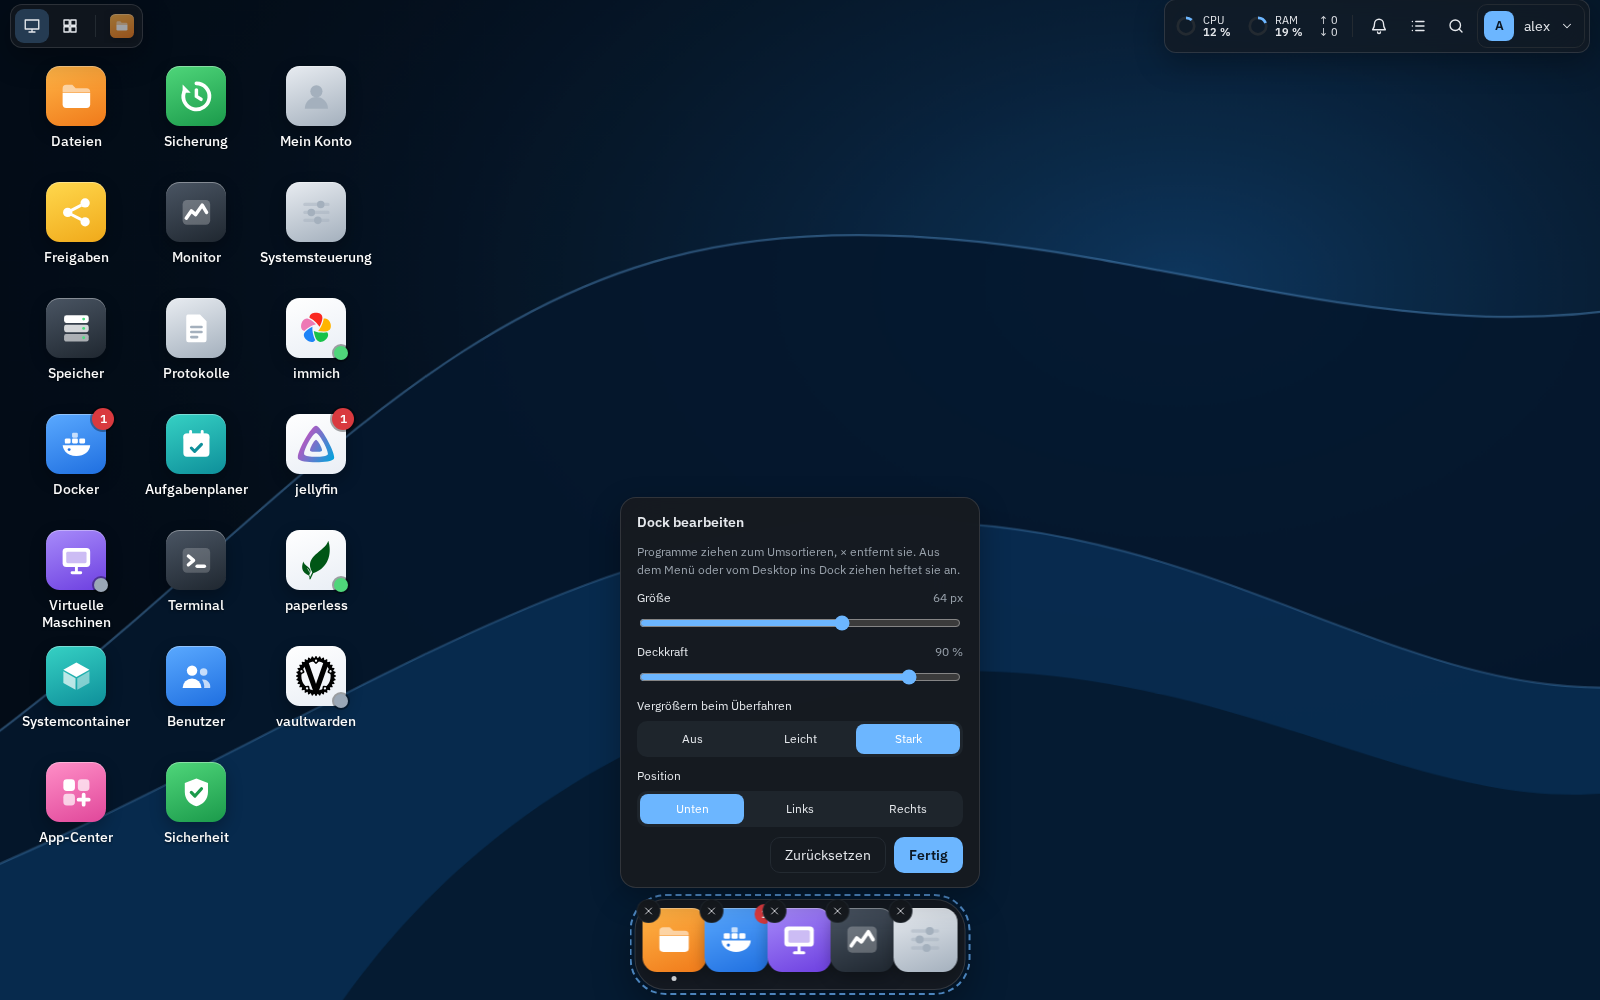
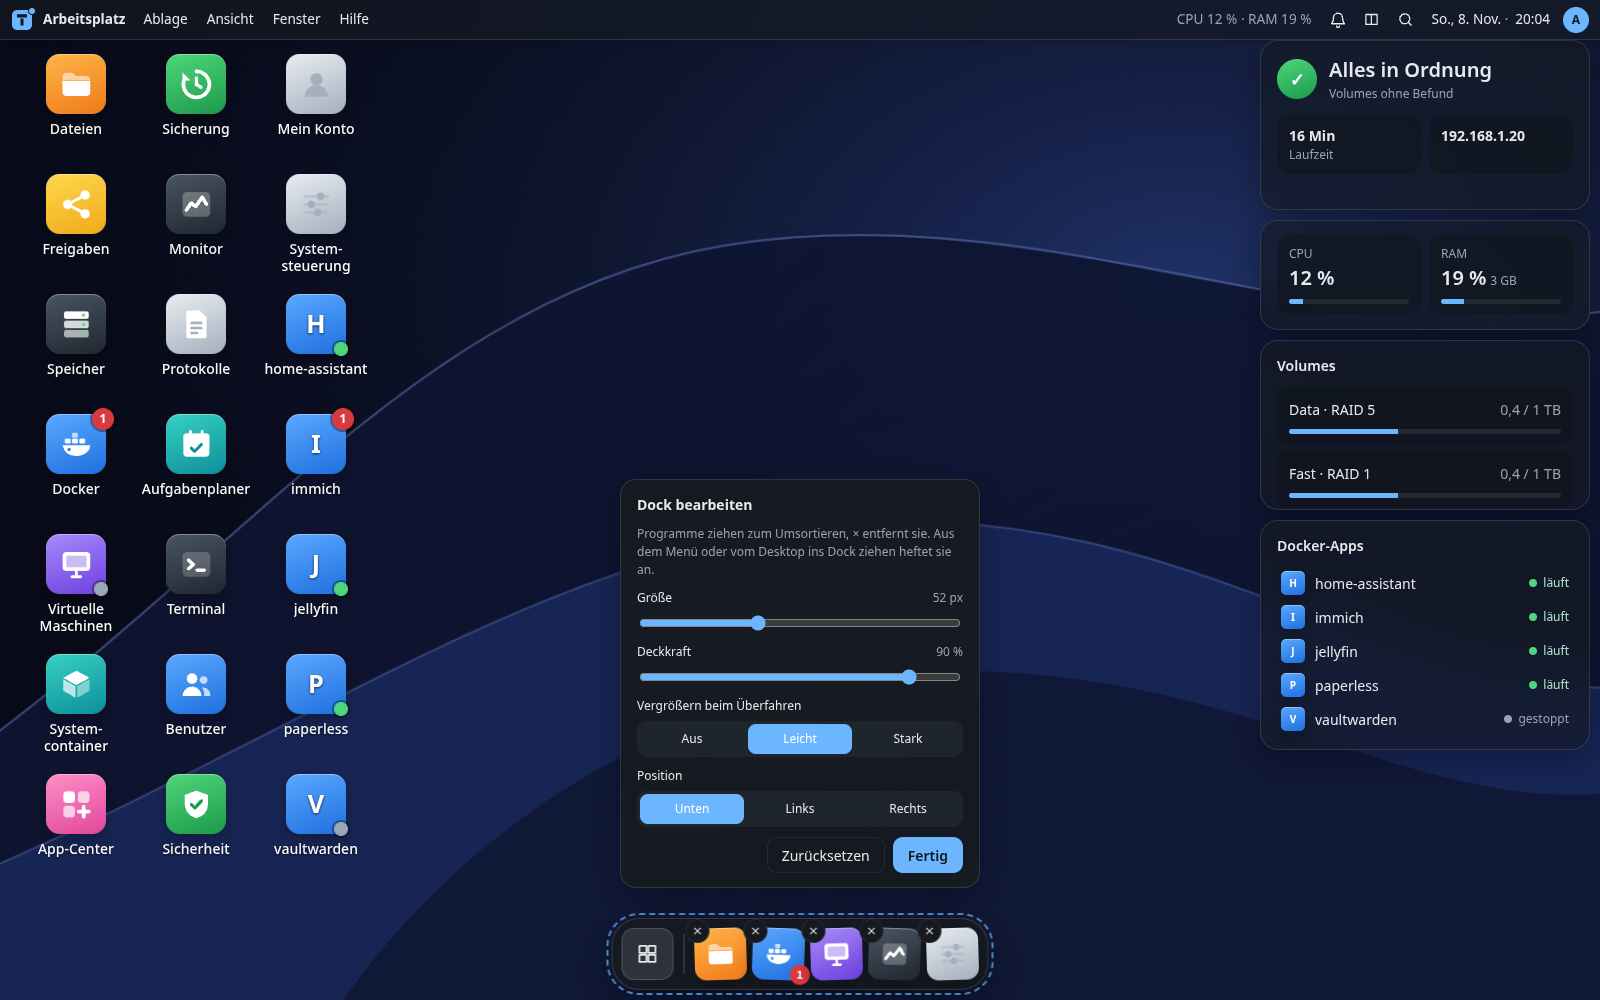
README: letzte alte Bilder durch Aufnahmen von 0.70 ersetzt
Hauptmenü, Dock bearbeiten, Systemsteuerung und Fernansicht (Fenster und
Handy) stammten noch aus 0.62. Die Fernansicht zeigt jetzt das Foto
„Küste“ statt der roten Testfläche (VIEWER_PICTURE im Viewer-Test).

diff --git a/docs/screenshots/README.md b/docs/screenshots/README.md
@@ -2,11 +2,11 @@
 
 `current/` enthält die aktuellen Aufnahmen für die Projekt-README und die Fachdokumente.
 
-**Aufnahmestand:** Arbeitsplatz, Anmeldeseite, Docker, Dateien, Virtuelle Maschinen, Freigaben, Speicher, Darstellung und Handy-Start zeigen **TitanOS 0.70.0** (Zweig `feat/0.70`), aufgenommen am **8. November 2026** mit `scripts/capture-readme-screenshots.mjs` (Chromium/Playwright gegen `vite dev`, Theme Graphit, blauer Akzent, Deutsch, Fenster maximiert). Die Docker-Apps (immich, jellyfin, paperless, home-assistant, vaultwarden) sind Beispieldaten des Skripts mit Buchstaben-Symbolen. Hauptmenü, Systemsteuerung, Dock bearbeiten und die Fernansicht stammen noch aus der Aufnahme von 0.62.0 (7. November 2026); ihre Oberfläche hat sich seither nur wenig geändert.
+**Aufnahmestand:** Alle in der README eingebundenen Bilder zeigen **TitanOS 0.70.0** (Zweig `feat/0.70`), aufgenommen am **8. November 2026** mit `scripts/capture-readme-screenshots.mjs` (Chromium/Playwright gegen `vite dev`, Theme Graphit, blauer Akzent, Deutsch, Fenster maximiert). Die Docker-Apps (immich, jellyfin, paperless, home-assistant, vaultwarden) sind Beispieldaten des Skripts mit Buchstaben-Symbolen. Die Fernansicht kommt aus `scripts/test-ui-viewer.mjs` mit `VIEWER_PICTURE=/backgrounds/kueste.webp`.
 
 Ältere Bilder in `current/` (Speicher, Freigaben, Dateien, Firewall, VM erstellen, Protokoll, Dateiaufträge, KI-Agent) zeigen die **alte Oberfläche** mit Kopfzeile (0.47.1 bzw. KI-Agent 0.51.0/0.54.0). Kopfzeile und Seitennavigation sind seit 0.62.0 entfernt; diese Bilder sind nur noch in Fachdokumenten verlinkt (VM erstellen, Protokoll) bzw. als Nachweis ihrer damaligen Prüfungen und werden in der README nicht mehr eingebunden. Die Aufnahmen des alten Dashboards und der alten Navigation sind entfernt.
 
-Alle NAS-Antworten werden durch isolierte Demonstrationsdaten ersetzt (`scripts/test-ui-fixtures.mjs`). Hostname, Konten, Dateien, Laufwerke, Adressen und Messwerte sind Beispiele. Es werden weder echte NAS-Geräte angesprochen noch Container oder VMs gestartet. Das Bild in der **Fernansicht** ist ein nachgebildeter Strom (rote Fläche mit grünem Quadrat, im Browser selbst kodiert), keine echte App. Die sichtbaren App-Symbole (immich, jellyfin, paperless, vaultwarden) sind die Originalbilder der Projekte aus dem Zwischenspeicher `out/readme-icons/` (SHA-256 bei der Aufnahme mit `icon-sources.json` verglichen, gleich); Quellen und SHA-256 stehen in [icon-sources.json](icon-sources.json), Namen und Logos gehören den jeweiligen Projekten. Keine nachträgliche Bildbearbeitung und keine Design-Mockups. Die Bilder ersetzen keine Funktions- oder Hardwareprüfung.
+Alle NAS-Antworten werden durch isolierte Demonstrationsdaten ersetzt (`scripts/test-ui-fixtures.mjs`). Hostname, Konten, Dateien, Laufwerke, Adressen und Messwerte sind Beispiele. Es werden weder echte NAS-Geräte angesprochen noch Container oder VMs gestartet. Das Bild in der **Fernansicht** ist ein nachgebildeter Strom (das mitgelieferte Foto „Küste“, im Browser selbst als Video kodiert), keine echte App. Die App-Symbole sind Buchstaben, keine Logos der Projekte ([icon-sources.json](icon-sources.json) gehört zu älteren Aufnahmen). Keine nachträgliche Bildbearbeitung und keine Design-Mockups. Die Bilder ersetzen keine Funktions- oder Hardwareprüfung.
 
 [capture.json](current/capture.json) nennt Quellstand, Aufnahmedatum und für jedes Bild Aufnahmeskript, Originaldatei der Skriptausgabe, Größe und SHA-256.
 
@@ -15,13 +15,13 @@ Alle NAS-Antworten werden durch isolierte Demonstrationsdaten ersetzt (`scripts/
 | Datei | Inhalt | Darstellung |
 |---|---|---|
 | [arbeitsplatz.png](current/arbeitsplatz.png) | Arbeitsplatz: Programmsymbole mit Abzeichen (Update, läuft/gestoppt), Widgets rechts (Zustand, CPU/RAM, Volumes, Docker-Apps), Leisten oben, Dock | Desktop 1600 × 1000 |
-| [fernansicht.png](current/fernansicht.png) | Fenster der Docker-App „immich“ in der Fernansicht: Zustand, Bildrate, GPU, Lautstärke, Qualität, Zwischenablage, Dateien; Bild nachgebildet | Desktop 1600 × 1000 |
+| [fernansicht.png](current/fernansicht.png) | Fenster der Docker-App „immich“ in der Fernansicht mit geöffnetem Menü „…“: Lautstärke, Datei öffnen, Zwischenablage, Qualität, Zustand; Bild nachgebildet | Desktop 1600 × 1000 |
 | [hauptmenue.png](current/hauptmenue.png) | Hauptmenü mit Suche, Filtern, Programmen, Docker-Apps und VM-Bildschirm, unten Konto, Sperren, Ein/Aus | Desktop 1600 × 1000 |
 | [docker.png](current/docker.png) | Programm Docker (Fenster maximiert): Seitenleiste, Werkzeugleiste, Container-Karten | Desktop 1600 × 1000 |
 | [vms.png](current/vms.png) | Programm Virtuelle Maschinen: „Deine VMs“ in der Seitenleiste, Übersicht einer VM mit Gefahrenzone | Desktop 1600 × 1000 |
-| [systemsteuerung.png](current/systemsteuerung.png) | Systemsteuerung › Alle Einstellungen mit Suche und Bereichen | Desktop 1600 × 1000 |
-| [darstellung.png](current/darstellung.png) | Systemsteuerung › Darstellung: Theme, Variante, Akzent, fünf Schieberegler | Desktop 1600 × 1000 |
-| [dock-bearbeiten.png](current/dock-bearbeiten.png) | Dock bearbeiten: Größe, Deckkraft, Vergrößern, Position | Desktop 1600 × 1000 |
+| [systemsteuerung.png](current/systemsteuerung.png) | Systemsteuerung › Übersicht: Seitenleiste mit Suche, Zustand, Dienste, Zu erledigen | Desktop 1600 × 1000 |
+| [darstellung.png](current/darstellung.png) | Systemsteuerung › Darstellung: Theme, Variante, Akzent, Glas von Klar bis Getönt, Hintergründe | Desktop 1600 × 1000 |
+| [dock-bearbeiten.png](current/dock-bearbeiten.png) | Dock bearbeiten: Größe, Deckkraft, Vergrößern, Position; Programme im Dock mit × | Desktop 1600 × 1000 |
 | [anmeldeseite.png](current/anmeldeseite.png) | Anmeldeseite nach dem Abmelden: Uhr, Glaskarte, Sprache | Desktop 1440 × 900 |
 | [handy-start.png](current/handy-start.png) | Startbildschirm am Handy: Suche, Zustand, App-Raster mit Docker-Apps | Smartphone 390 × 844 |
 | [fernansicht-mobil.png](current/fernansicht-mobil.png) | Fernansicht am Handy im Vollbild mit Lautstärke und Tastatur | Smartphone 390 × 844 |

diff --git a/README.md b/README.md
@@ -89,7 +89,7 @@ Alles im Einzelnen – zum Aufklappen.
 - **Am Handy:** Startbildschirm mit Suche und App-Raster; jedes Programm und jede Docker-App öffnet im Vollbild mit „Zurück“. Ränder für Notch und Home-Leiste, keine vergrößernden Eingabefelder in Safari.
 - **Klare Rückfragen statt Eintippen:** Löschen, Überschreiben, Plattentests, Zwei-Faktor-Zurücksetzen, SSH-Schlüssel und Zertifikate entfernen bestätigt man in einem Dialog, der genau nennt, was passiert. Namen müssen nirgends eingetippt werden; „Abbrechen“ hat den Fokus, Enter löst nie die gefährliche Aktion aus. Zerstörende Knöpfe stehen gesammelt in einer abgesetzten „Gefahrenzone“ am Ende. Fachbegriffe erklärt ein „?“ direkt daneben.
 
-[![Hauptmenü mit Suche, Filtern, Programmen und Docker-Apps](docs/screenshots/current/hauptmenue.png)](docs/screenshots/current/hauptmenue.png)
+[![Hauptmenü mit Suche, Filtern, Programmen, Docker-Apps und VM-Bildschirm](docs/screenshots/current/hauptmenue.png)](docs/screenshots/current/hauptmenue.png)
 
 [Dock bearbeiten](docs/screenshots/current/dock-bearbeiten.png) · [Beschreibung des Desktop-Modus](docs/DESKTOP.md) · [Sperrbildschirm](docs/SESSION-LOCK.md)
 
@@ -161,7 +161,7 @@ Alles im Einzelnen – zum Aufklappen.
 
 [![Programm Docker im Fenster: Seitenleiste, Werkzeugleiste und Container-Karten mit App-Symbolen](docs/screenshots/current/docker.png)](docs/screenshots/current/docker.png)
 
-[![Docker-App „immich“ in der Fernansicht im Fenster, mit Lautstärke, Qualität, Zwischenablage und Dateien (Bild nachgebildet)](docs/screenshots/current/fernansicht.png)](docs/screenshots/current/fernansicht.png)
+[![Docker-App „immich“ in der Fernansicht im Fenster, Menü mit Lautstärke, Dateien, Zwischenablage und Qualität (Bild nachgebildet)](docs/screenshots/current/fernansicht.png)](docs/screenshots/current/fernansicht.png)
 
 [Fernansicht](docs/FERNANSICHT.md) · [App-Fenster, Rechte und Zertifizierungsstelle](docs/APP-WINDOWS.md) · [App-Links](docs/APP-LINKS.md) · [HTTPS-Namen für Apps](docs/APP-PROXY.md) · [Immich und Ollama-Vorlagen](docs/NATIVE-APPS.md)
 
@@ -298,11 +298,11 @@ Die VM-Einrichtung zeigt kompakte Kacheln mit einer gemeinsamen Zusammenfassung.
 - **Deutsch und Englisch**, lokale Schriftdateien, Tastatur- und Touch-Bedienung.
 - **Dienste nach Bedarf:** Docker, VMs und LXC lassen sich unter Systemsteuerung › Dienste ausschalten; ihr Programm verschwindet, die Daten bleiben.
 
-[![Systemsteuerung › Alle Einstellungen mit Suche und Bereichen nach System, Netzwerk sowie Konten und Diensten](docs/screenshots/current/systemsteuerung.png)](docs/screenshots/current/systemsteuerung.png)
+[![Systemsteuerung › Übersicht mit Seitenleiste, Zustand, Diensten und offenen Aufgaben](docs/screenshots/current/systemsteuerung.png)](docs/screenshots/current/systemsteuerung.png)
 
 [![Anmeldeseite mit bewegtem Nordlicht und Kontobildern](docs/screenshots/current/anmeldeseite.png)](docs/screenshots/current/anmeldeseite.png)
 
-[Systemsteuerung › Darstellung mit fünf Schiebereglern](docs/screenshots/current/darstellung.png) · [Anmeldeseite gestalten](docs/LOGIN-APPEARANCE.md)
+[Systemsteuerung › Darstellung](docs/screenshots/current/darstellung.png) · [Anmeldeseite gestalten](docs/LOGIN-APPEARANCE.md)
 
 <p align="center">
   <a href="docs/screenshots/current/handy-start.png"><img src="docs/screenshots/current/handy-start.png" alt="Startbildschirm am Smartphone: Suche, Zustand und App-Raster mit Programmen und Docker-Apps" width="260"></a>
